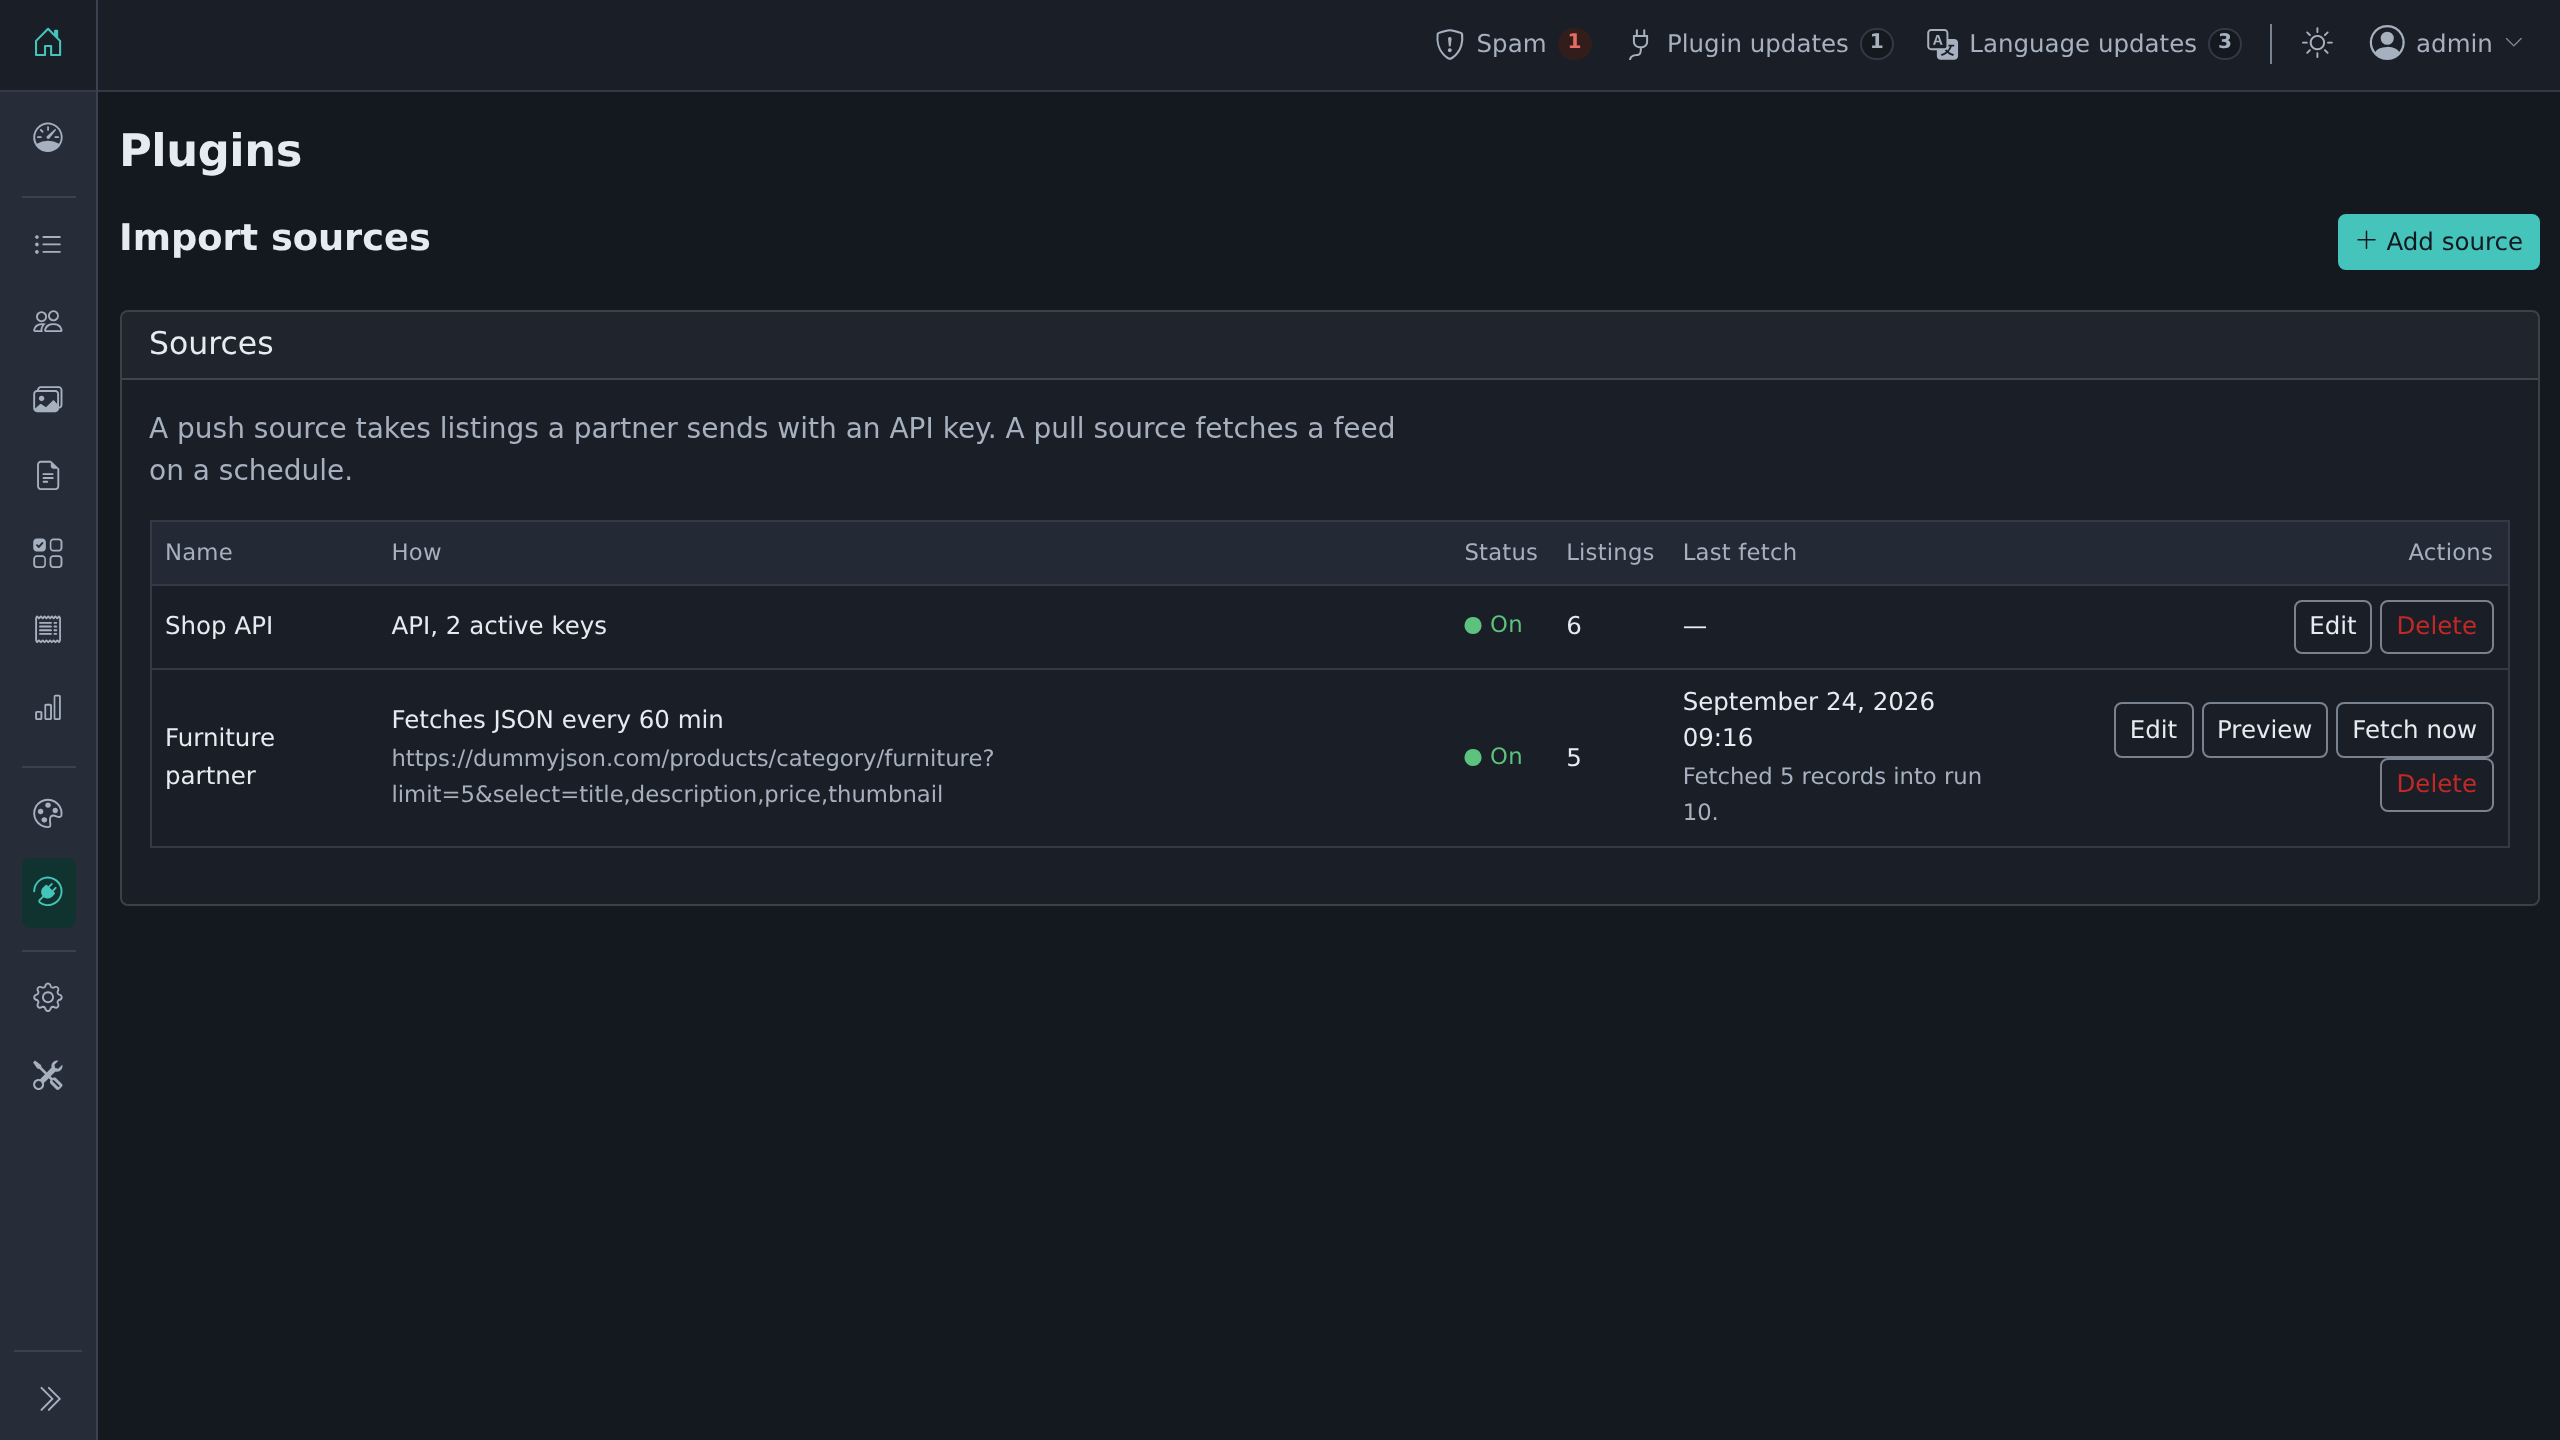
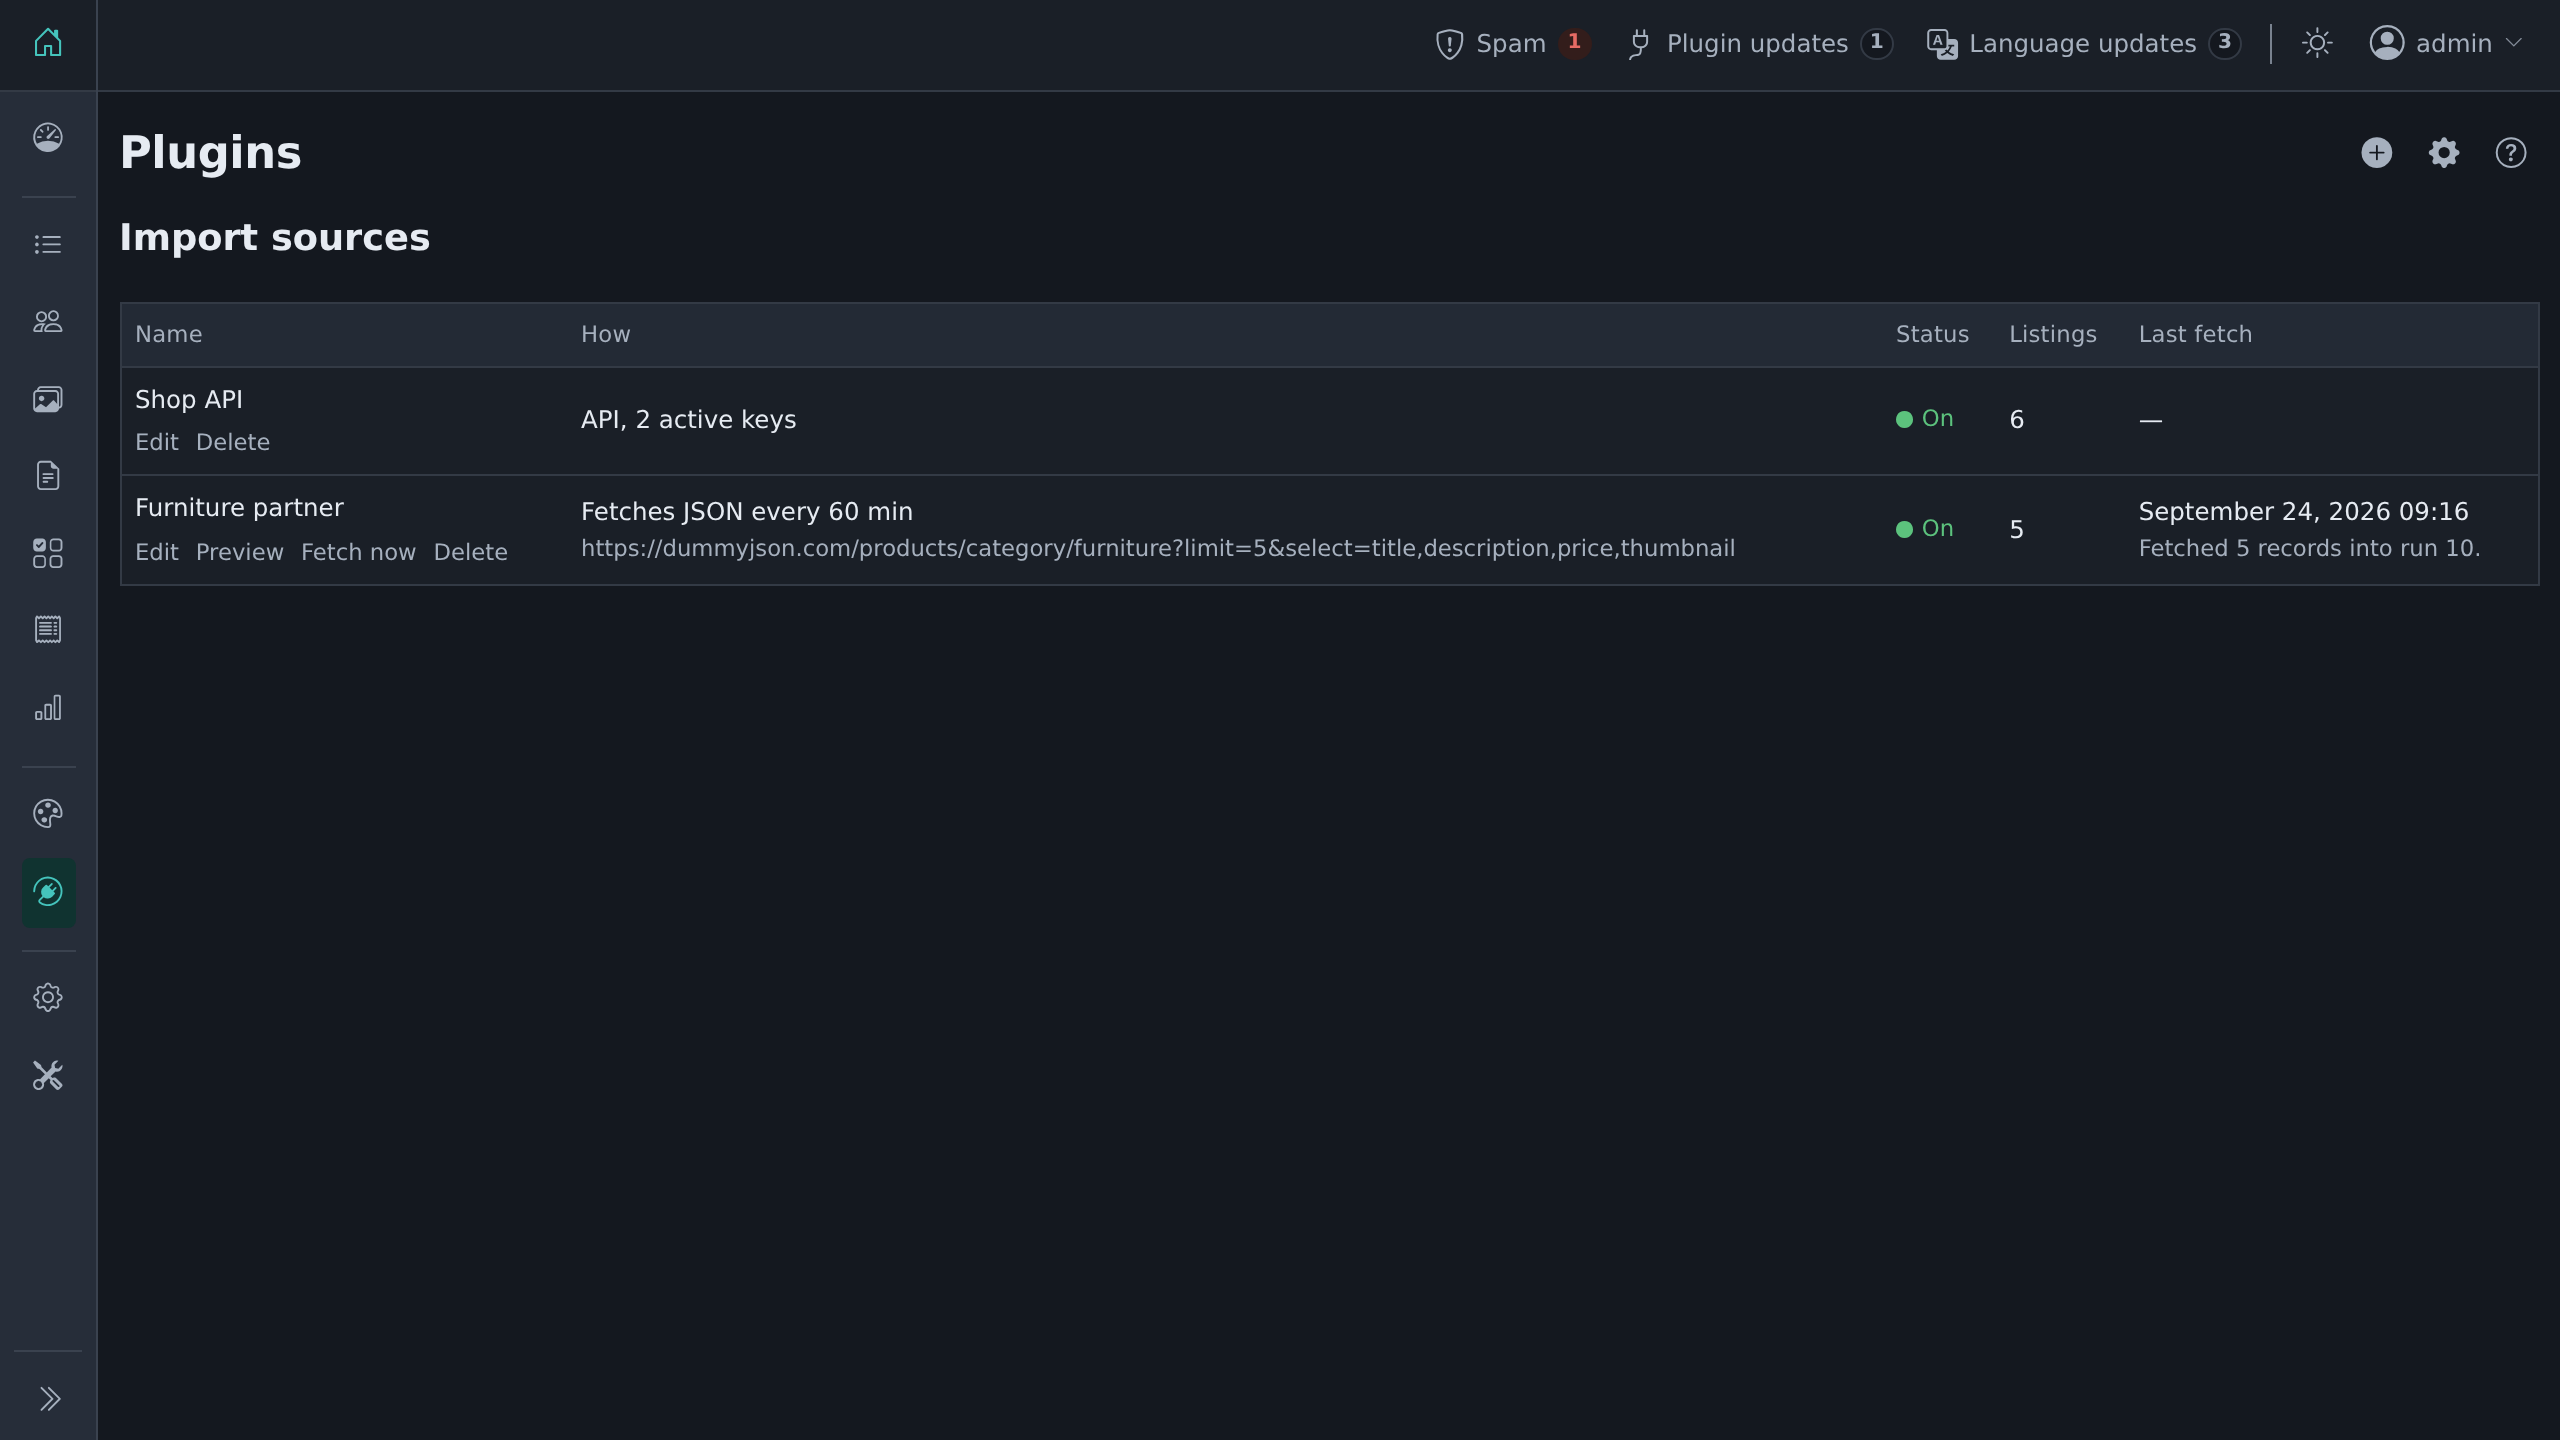
New screenshots, a fifth for the help screen, and the menu names in the docs.

diff --git a/CHANGELOG.md b/CHANGELOG.md
@@ -3,7 +3,7 @@
 ## 0.1.0
 
 ### New
-- API keys: an admin makes, rotates and revokes them under **Plugins → Listing import: API keys**. The secret is shown once and stored only as a hash.
+- API keys: an admin makes, rotates and revokes them under **Plugins → Listing import → API keys**. The secret is shown once and stored only as a hash.
 - Every endpoint but ping needs a key with the right permission, and each key is limited to a number of requests a minute.
 - An address that fails the key check 20 times in 15 minutes is refused for a while.
 - `POST /api/v1/listings` imports one record: it creates a listing, updates the one it made before, or changes nothing when the record is the same.
@@ -21,7 +21,8 @@
 - A JSON feed may wrap its list in an object, such as `{"products": [...]}`.
 - An image the site would refuse, by type or size, is skipped with a warning instead of failing the listing.
 - A listing whose record leaves its feed is deactivated, never deleted, and comes back when the record returns. A feed where most records fail deactivates nothing.
-- Sources are managed under **Plugins → Listing import: sources**: a list, an editor core draws from the plugin's declaration, a preview of what a feed would import, and Fetch now.
+- Sources are managed under **Plugins → Listing import → Sources**: a list, an editor core draws from the plugin's declaration, a preview of what a feed would import, and Fetch now.
+- A Help screen and a **?** help on every screen; the screens follow the admin's own layout.
 - A feed address must pass the same public-address check as images, and a feed declaring an XML entity is refused before it is parsed.
 - Import log lines older than the retention setting are deleted once a day.
 - Every request is a run with its own log lines, and a record that fails names each problem by its field.

diff --git a/README.md b/README.md
@@ -10,8 +10,8 @@ moderation, spam checks, listing limits and expiry.
 |---|---|
 | ![A feed source](assets/screenshot-2.png) | ![Feed preview](assets/screenshot-3.png) |
 | A feed source | Preview a feed before it changes anything |
-| ![API keys](assets/screenshot-4.png) | |
-| API keys with their own permissions | |
+| ![API keys](assets/screenshot-4.png) | ![Help](assets/screenshot-5.png) |
+| API keys with their own permissions | A help screen with the API guide |
 
 ## Requirements
 
@@ -47,7 +47,7 @@ Both answer:
 
 ## Make a key
 
-**Plugins → Listing import: API keys → New key.** Pick its permissions:
+**Plugins → Listing import → API keys → Add a key.** Pick its permissions:
 
 | Permission | Lets the key |
 |---|---|
@@ -154,7 +154,7 @@ The site's own rules apply to every listing: moderation, spam checks, listing li
 
 ## Pull a feed
 
-**Plugins → Listing import: sources → New source.** Give the feed address, its format, and how
+**Plugins → Listing import → Sources**, then the **+** button. Give the feed address, its format, and how
 often to fetch it. Formats: JSON, NDJSON, CSV, or another Shopclass site's RSS. A JSON feed
 may be a plain list or an object holding one list, such as `{"products": [...]}`.
 
